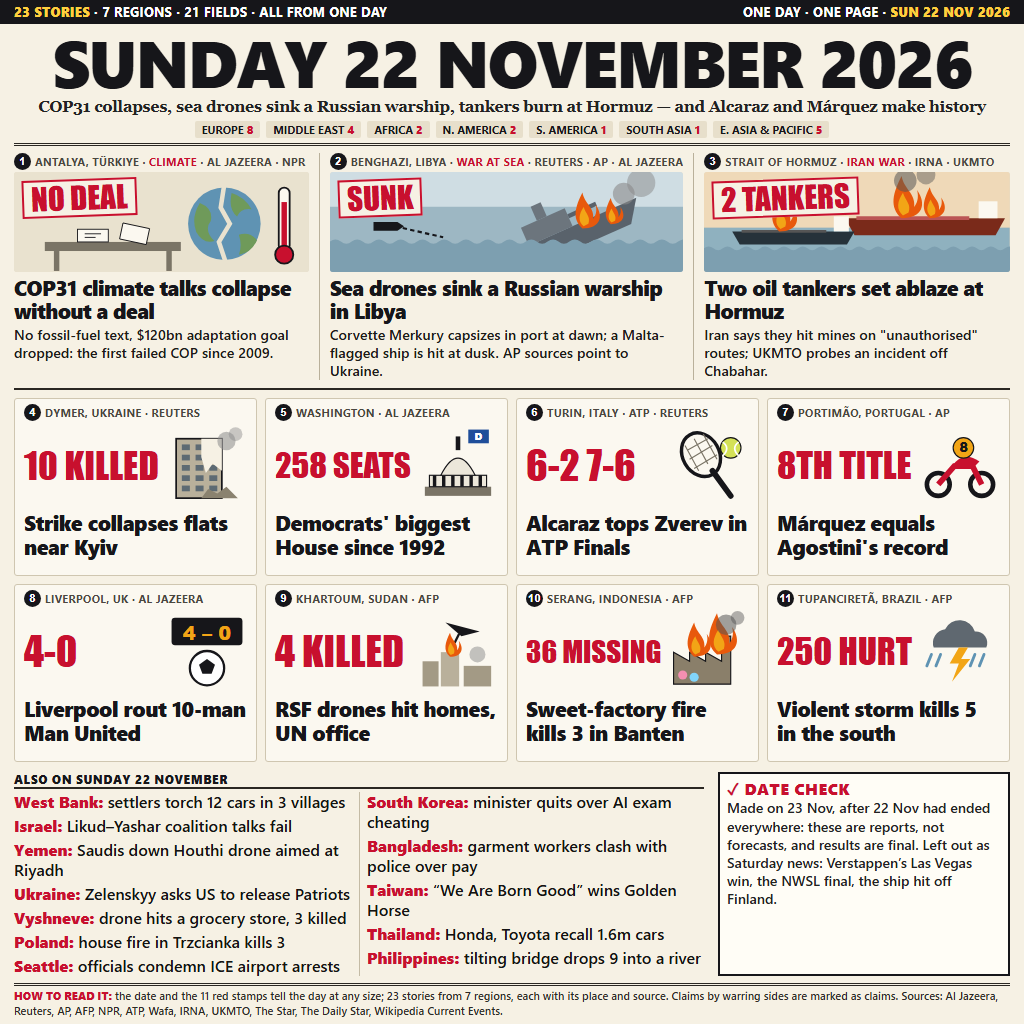
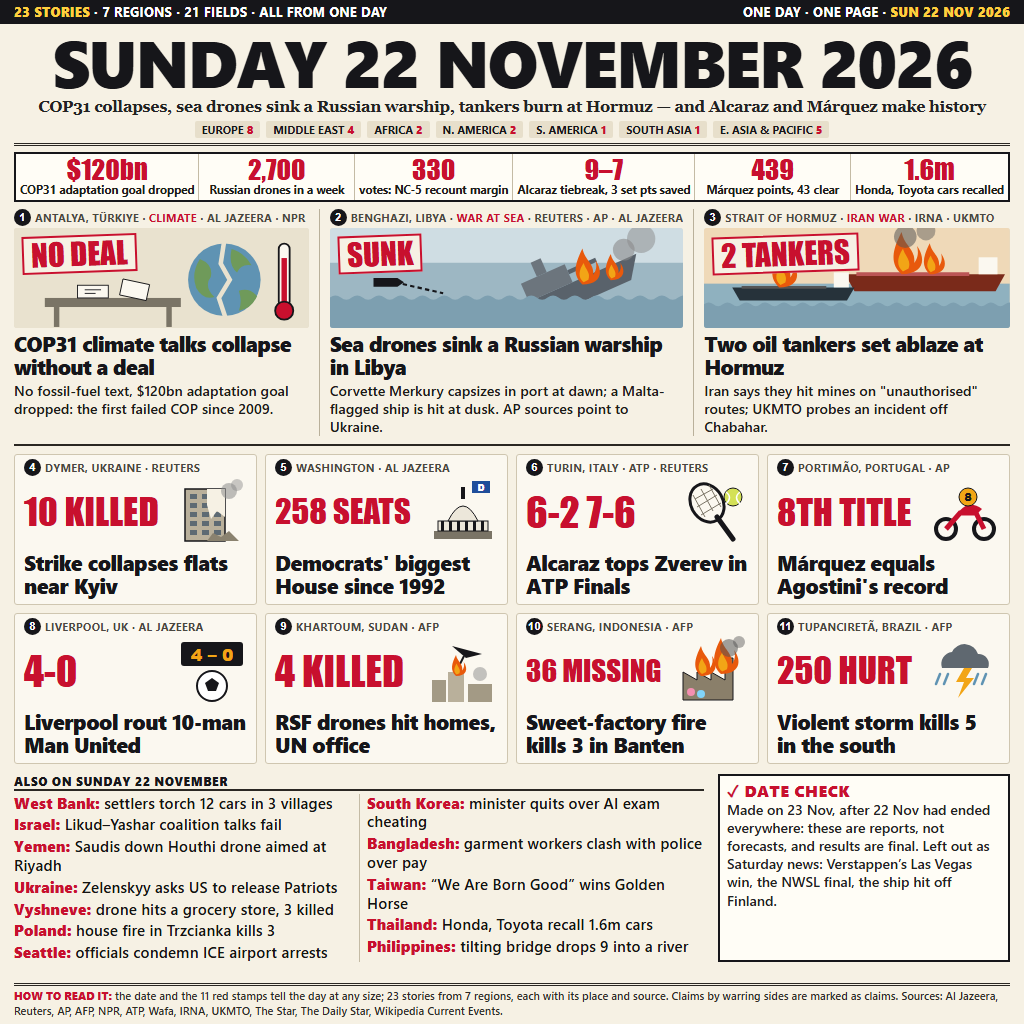
Add a day-in-numbers strip of six key figures

diff --git a/src/page.html b/src/page.html
@@ -17,6 +17,11 @@
   .regions { display:flex; gap:6px; justify-content:center; margin:5px 0 0; padding-bottom:5px; border-bottom:3px double var(--rule); }
   .regions span { font:700 11px/17px "Segoe UI", Arial; padding:0 7px; background:#e7dfcb; border-radius:2px; }
   .regions span b { color:var(--red); }
+  .figures { display:grid; grid-template-columns:repeat(6,1fr); margin:6px 14px 0; border:2px solid var(--ink); background:#fffdf6; }
+  .figures div { text-align:center; padding:2px 4px 3px; border-right:1px solid #c4bba5; }
+  .figures div:last-child { border-right:0; }
+  .figures b { display:block; font:400 27px/1 Impact, "Arial Narrow Bold", sans-serif; color:var(--red); }
+  .figures span { display:block; font:700 11.5px/1.15 "Segoe UI", Arial; color:#1d1c19; white-space:nowrap; }
   .leads { display:grid; grid-template-columns:repeat(3,1fr); gap:10px; padding:7px 14px 0; }
   .lead { border-right:1px solid #b9b09a; padding-right:10px; position:relative; }
   .lead:last-child { border-right:0; padding-right:0; }
@@ -34,8 +39,8 @@
   .lead p { font:600 14.2px/1.27 "Segoe UI", Arial; margin-top:3px; color:#1d1c19; }
   .cards { display:grid; grid-template-columns:repeat(4,1fr); gap:8px; padding:8px 14px 0; border-top:0; }
   .cardrow-rule { margin:8px 14px 0; border-top:2px solid var(--rule); }
-  .card { background:#fbf8f0; border:1px solid #cfc6b0; border-radius:3px; padding:5px 9px 6px; height:178px; overflow:hidden; }
-  .card .pic { display:flex; align-items:center; justify-content:space-between; height:84px; margin-top:2px; }
+  .card { background:#fbf8f0; border:1px solid #cfc6b0; border-radius:3px; padding:4px 9px 5px; height:151px; overflow:hidden; }
+  .card .pic { display:flex; align-items:center; justify-content:space-between; height:70px; margin-top:1px; }
   .card .stamp { font-size:40px; }
   .card svg { flex:none; }
   .card h3 { font:800 21px/1.12 "Segoe UI", Arial; margin-top:4px; letter-spacing:-.4px; }
@@ -47,7 +52,7 @@
   .check b.t { font:800 12px/15px "Segoe UI", Arial; letter-spacing:.5px; color:var(--red); }
   .check p { font:600 11px/1.28 "Segoe UI", Arial; color:#222; }
   .briefs .cols { columns:2; column-gap:16px; column-rule:1px solid #c4bba5; }
-  .briefs li { list-style:none; font:600 16px/1.25 "Segoe UI", Arial; break-inside:avoid; margin-bottom:4px; color:#141412; }
+  .briefs li { list-style:none; font:600 15.4px/1.22 "Segoe UI", Arial; break-inside:avoid; margin-bottom:3px; color:#141412; }
   .check { margin-top:0; }
   .check p { font:600 14px/1.3 "Segoe UI", Arial; }
   .check b.t { font-size:16px; line-height:20px; }
@@ -64,6 +69,7 @@
   <div class="strap">COP31 collapses, sea drones sink a Russian warship, tankers burn at Hormuz — and Alcaraz and Márquez make history</div>
   <div class="regions" id="regions"></div>
 </header>
+<section class="figures" id="figures"></section>
 <section class="leads" id="leads"></section>
 <div class="cardrow-rule"></div>
 <section class="cards" id="cards"></section>
@@ -124,7 +130,19 @@ const BRIEFS = [
   { place:'Philippines', field:'Infrastructure', region:'E. Asia & Pacific', text:'tilting bridge drops 9 into a river' },
 ];
 
+// the day in numbers: figures not already on a stamp below
+const FIGURES = [
+  ['$120bn', 'COP31 adaptation goal dropped'],
+  ['2,700', 'Russian drones in a week'],
+  ['330', 'votes: NC-5 recount margin'],
+  ['9–7', 'Alcaraz tiebreak, 3 set pts saved'],
+  ['439', 'Márquez points, 43 clear'],
+  ['1.6m', 'Honda, Toyota cars recalled'],
+];
+
 const ALL = [...LEADS, ...CARDS, ...BRIEFS];
+document.getElementById('figures').innerHTML =
+  FIGURES.map(([n, what]) => `<div><b>${n}</b><span>${what}</span></div>`).join('');
 const REGION_ORDER = ['Europe','Middle East','Africa','N. America','S. America','South Asia','E. Asia & Pacific'];
 const regionCount = Object.fromEntries(REGION_ORDER.map(r => [r, ALL.filter(s => s.region === r).length]));
 const fields = new Set(ALL.map(s => s.field));
@@ -222,7 +240,7 @@ document.querySelectorAll('.lead .pic svg').forEach(svg => svg.setAttribute('pre
 document.getElementById('cards').innerHTML = CARDS.map(s => `
   <article class="card">
     <div class="label"><span class="num">${s.n}</span>${s.place} · ${s.src}</div>
-    <div class="pic"><div class="stamp">${s.stamp}</div>${PICS[s.pic](80)}</div>
+    <div class="pic"><div class="stamp">${s.stamp}</div>${PICS[s.pic](70)}</div>
     <h3>${s.head}</h3>
   </article>`).join('');
 
